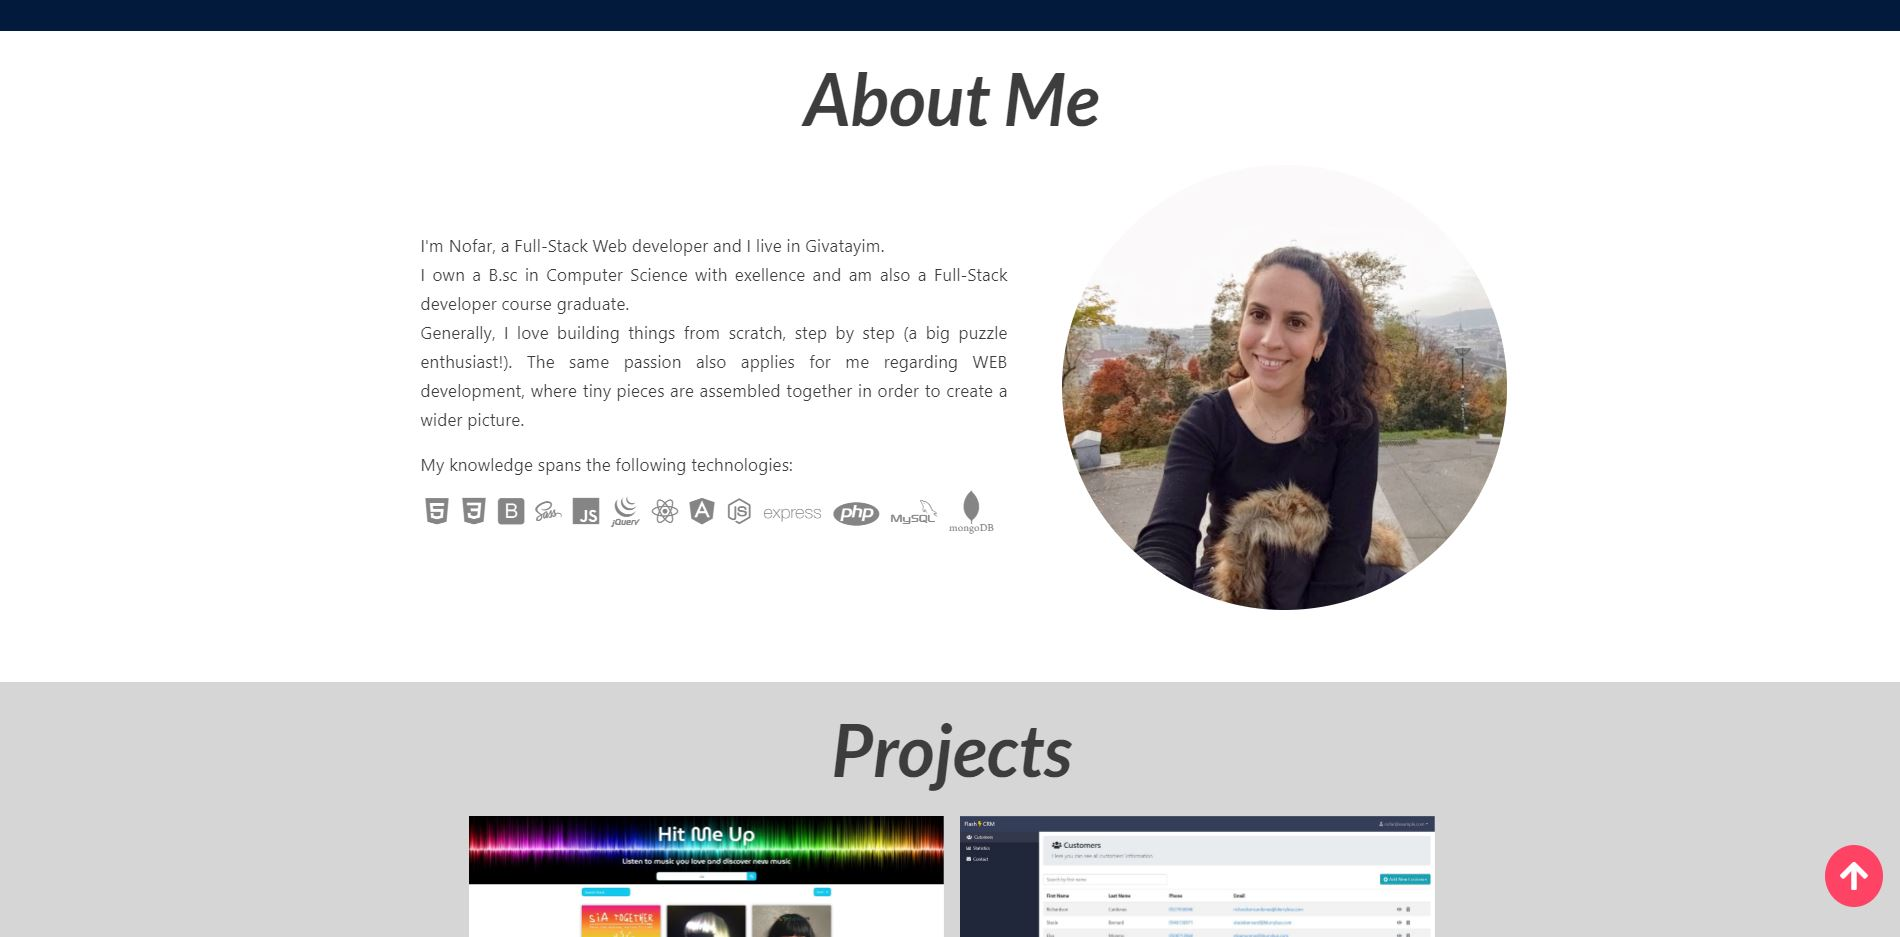
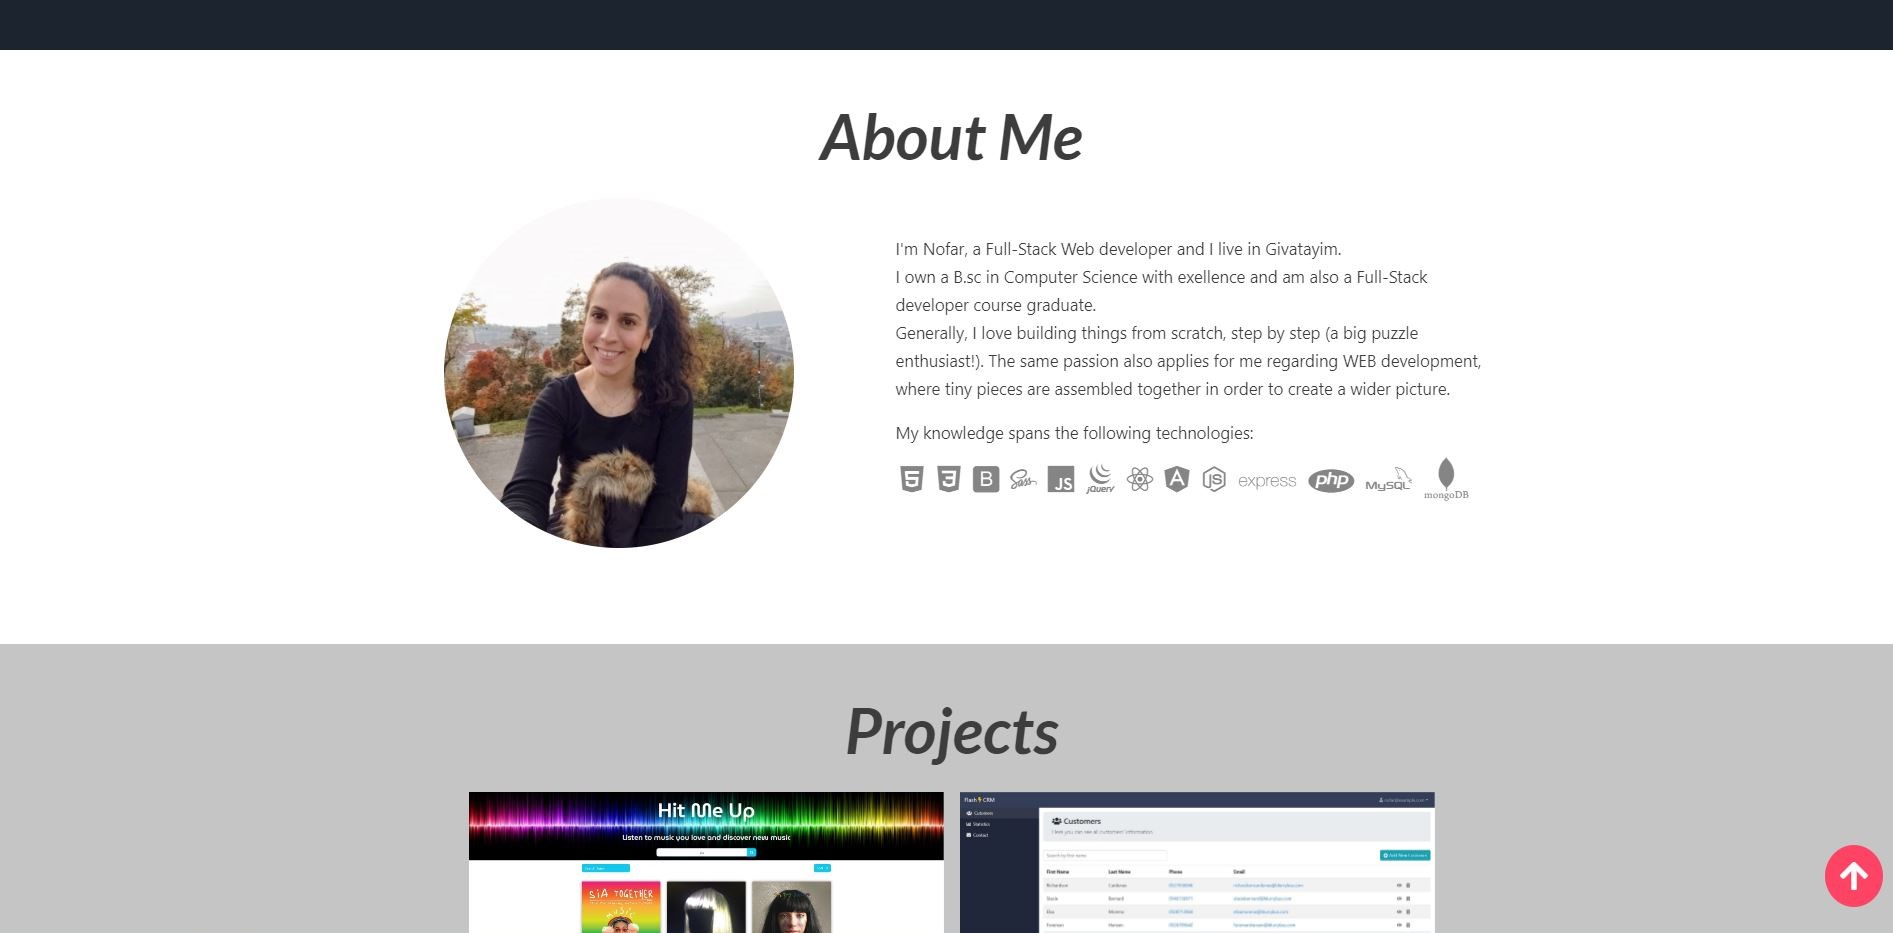
Changing style

diff --git a/src/components/header.jsx b/src/components/header.jsx
@@ -1,6 +1,6 @@
 import React, { Component } from "react";
 import Typist from "react-typist";
-import { Link } from "react-router-dom";
+// import { Link } from "react-router-dom";
 import $ from "jquery";
 
 class Header extends Component {
@@ -18,41 +18,43 @@ class Header extends Component {
   render() {
     return (
       <React.Fragment>
-        <Link
+        {/* <Link
           to="#contact"
           id="header-btn"
           onClick={e => this.handleScrollToContact(e)}
         >
           Let's Talk <i className="fas fa-arrow-right"></i>
-        </Link>
+        </Link> */}
 
         <section className="container d-flex align-items-center">
           <div className="row">
             <div className="main-title pl-3 pl-lg-0">
               <Typist cursor={{ show: false }}>
                 <Typist.Delay ms={500} />
-                <p className="tag mb-3">&lt;html&gt;</p>
+                <p className="tag mb-2">&lt;html&gt;</p>
               </Typist>
               <Typist cursor={{ show: false }}>
                 <Typist.Delay ms={1000} />
-                <p className="tag mb-5 ml-md-4">&lt;body&gt;</p>
+                <p className="tag ml-md-4 mb-5">&lt;body&gt;</p>
               </Typist>
               <Typist cursor={{ show: false }}>
                 <Typist.Delay ms={1500} />
+                <span className="tag ml-md-5">&lt;h1&gt;</span>
                 <h1 className="name-title pl-md-5">
-                  <span className="tag">&lt;h1&gt;</span>&nbsp; Hi, I'm Nofar
-                  Salhove&nbsp;&nbsp;
-                  <span className="tag">&lt;&#47;h1&gt;</span>
+                  <span className="ml-md-5">Hi,</span>
+                  <br />
+                  <span className="ml-md-5 mr-3">I'm Nofar Salhove</span>
                 </h1>
+                <span className="tag ml-md-5">&lt;&#47;h1&gt;</span>
               </Typist>
               <Typist cursor={{ show: false }}>
                 <Typist.Delay ms={4700} />
                 <p
                   data-text="A Full Stack Web Developer"
-                  className="profession mb-5 ml-md-5"
+                  className="profession ml-md-5 mb-5"
                 >
                   <span className="tag">&lt;p&gt;</span>
-                  <span className="mx-4 mx-md-5">
+                  <span className="mx-2 mx-md-3">
                     A Full Stack Web Developer
                   </span>
                   <span className="tag">&lt;&#47;p&gt;</span>
@@ -60,11 +62,11 @@ class Header extends Component {
               </Typist>
               <Typist cursor={{ show: false }}>
                 <Typist.Delay ms={7900} />
-                <p className="tag mb-3 ml-md-4">&lt;&#47;body&gt;</p>
+                <p className="tag mb-2 ml-md-4">&lt;&#47;body&gt;</p>
               </Typist>
               <Typist cursor={{ show: false }}>
                 <Typist.Delay ms={8500} />
-                <p className="tag mb-0">&lt;&#47;html&gt;</p>
+                <p className="tag mb-4">&lt;&#47;html&gt;</p>
               </Typist>
             </div>
           </div>

diff --git a/src/styles/header.scss b/src/styles/header.scss
@@ -14,7 +14,7 @@ header {
     padding: 8px 30px;
     border: 2px solid #fff;
     color: white;
-    font-size: 1.3em;
+    font-size: 15.5pt;
     font-family: $lato-font, "sans-serif";
     font-style: italic;
     text-decoration: none;
@@ -45,22 +45,21 @@ header {
     font-size: 20px;
     color: #fff;
     // color: #696969;
-    @include type-style;
     font-weight: normal;
   }
 
   .name-title {
     color: cyan;
-    font-size: 1.6em;
+    // font-size: 1.6em;
+    font-size: 33pt !important;
     // font-size: 6vw !important;
-    @include type-style;
   }
 
   .profession {
     color: cyan;
-    font-size: 1.2em;
+    // font-size: 1.2em;
+    font-size: 17pt;
     font-weight: 300 !important;
-    @include type-style;
   }
 }
 
@@ -69,31 +68,46 @@ header {
   // header.container {
   //   padding-top: 260px !important;
   // }
+  header {
+    .container {
+      width: 900px;
+    }
 
-  .name-title {
-    font-size: 3em !important;
-  }
+    .name-title {
+      // font-size: 2em !important;
+      font-size: 40pt !important;
+    }
 
-  .profession {
-    font-size: 2em !important;
+    .profession {
+      // font-size: 2em !important;
+      font-size: 22pt !important;
+    }
   }
 }
 
 // large screen
 @media (min-width: 992px) {
-  #header-btn {
-    bottom: 30px !important;
-  }
+  header {
+    .container {
+      width: 900px;
+    }
 
-  .tag {
-    font-size: 26px !important;
-  }
+    #header-btn {
+      bottom: 10px !important;
+    }
 
-  .name-title {
-    font-size: 4.2em !important;
-  }
+    .tag {
+      font-size: 26px !important;
+    }
 
-  .profession {
-    font-size: 2.3em !important;
+    .name-title {
+      // font-size: 4.2em !important;
+      font-size: 48pt !important;
+    }
+
+    .profession {
+      // font-size: 2.3em !important;
+      font-size: 22pt !important;
+    }
   }
 }

diff --git a/src/components/projects.jsx b/src/components/projects.jsx
@@ -15,7 +15,7 @@ class Projects extends Component {
         techs: ["Javascript", "RestApi"],
         webLink: "https://hit-me-up.netlify.app/",
         gitLink: "https://github.com/nofarsalhove/hit-me-up",
-        animationDelay: 0
+        animationDelay: 100
       },
       {
         title: "Flash CRM",
@@ -23,14 +23,14 @@ class Projects extends Component {
         techs: ["Angular", "Firebase"],
         webLink: "https://flash-crm.web.app/",
         gitLink: "https://github.com/nofarsalhove/flash-crm",
-        animationDelay: 200
+        animationDelay: 300
       },
       {
         title: "Hi-JobsIL",
         image: hiJobIL,
         techs: ["React", "Node.js", "MongoDB"],
         gitLink: "https://github.com/nofarsalhove/hi-jobs-il",
-        animationDelay: 400
+        animationDelay: 500
       },
       {
         title: "My Portfolio",
@@ -38,7 +38,7 @@ class Projects extends Component {
         techs: ["React"],
         webLink: "https://www.nofarsalhove.com/",
         gitLink: "https://github.com/nofarsalhove/portfolio",
-        animationDelay: 600
+        animationDelay: 700
       }
     ]
   };

diff --git a/src/components/about.jsx b/src/components/about.jsx
@@ -30,13 +30,14 @@ class About extends Component {
           <SectionTitle title="About Me" />
 
           <div className="row mb-5">
-            <div className="col-10 col-sm-8 col-md-7 col-lg-5 mx-auto">
+            <div className="col-10 col-sm-8 col-md-7 col-lg-4 mx-auto">
               <img
                 src={me}
                 alt="me"
                 className="img-fluid rounded-circle"
                 data-aos="fade-right"
                 data-aos-duration="600"
+                data-aos-delay="100"
               />
             </div>
             <div className="col-lg-7 d-flex align-items-center pt-4 pt-lg-0">
@@ -44,6 +45,7 @@ class About extends Component {
                 className="px-lg-4"
                 data-aos="fade-left"
                 data-aos-duration="600"
+                data-aos-delay="100"
               >
                 <p>
                   I'm Nofar, a Full-Stack Web developer and I live in Givatayim.

diff --git a/src/styles/projects.scss b/src/styles/projects.scss
@@ -2,10 +2,13 @@
 @import "common/fonts.scss";
 
 #project {
-  background-color: #d6d6d6;
-  // background-color: #f5f5f5;
+  // background-color: #d6d6d6;
+  background-color: #dadada;
+  // background-color: #c5c5c5;
 
   .project-container {
+    position: relative;
+
     .project-description {
       position: absolute;
       width: 100%;
@@ -33,6 +36,7 @@
       font-family: $lato-font, sans-serif;
       font-weight: 700;
       font-style: italic;
+      font-size: 22pt;
     }
 
     .project-links {
@@ -46,6 +50,22 @@
           transform: translateY(-4px);
         }
       }
+    }
+  }
+}
+
+@media (min-width: 768px) {
+  #project {
+    .card-title {
+      font-size: 24pt !important;
+    }
+  }
+}
+
+@media (min-width: 992px) {
+  #project {
+    .card-title {
+      font-size: 26pt !important;
     }
   }
 }

diff --git a/src/components/contact.jsx b/src/components/contact.jsx
@@ -58,7 +58,12 @@ class Contact extends Component {
         <div className="container">
           <SectionTitle title="Let's keep in touch" />
 
-          <div className="row justify-content-center">
+          <div
+            className="row justify-content-center"
+            data-aos="zoom-in"
+            data-aos-duration="650"
+            data-aos-delay="300"
+          >
             <form
               method="POST"
               autoComplete="off"

diff --git a/src/components/create-project-card.jsx b/src/components/create-project-card.jsx
@@ -15,7 +15,10 @@ class CreateProjectCard extends Component {
     return (
       <div
         className="project-container col-10 col-md-10 col-lg-5 mb-4 px-0 mx-sm-2 "
-        data-aos="zoom-in"
+        // data-aos="zoom-in"
+        data-aos="fade-up"
+        data-aos-anchor-placement="top-bottom"
+        data-aos-duration="600"
         data-aos-delay={animationDelay}
       >
         <section className="project-description text-white py-3 text-center">

diff --git a/src/styles/contact.scss b/src/styles/contact.scss
@@ -1,8 +1,10 @@
 @import "common/mixins.scss";
 
 #contact {
-  background-color: #042d62;
-  // background-color: #94c284;
+  // background-color: #042d62;
+  // background-color: #2c394b;
+  background-color: #253346;
+
   h1 {
     color: white;
   }
@@ -15,7 +17,7 @@
 
   .form-control {
     // background-color: rgba(#021b3b, 0.4);
-    background-color: rgba(#000, 0.2);
+    background-color: rgba(#000, 0.3);
     border: none;
     color: white;
 

diff --git a/src/styles/common/section-title.scss b/src/styles/common/section-title.scss
@@ -3,4 +3,17 @@ h1 {
   color: #3d3d3d;
   font-weight: 700;
   font-style: italic;
+  font-size: 33pt !important;
+}
+
+@media (min-width: 768px) {
+  h1 {
+    font-size: 40pt !important;
+  }
+}
+
+@media (min-width: 992px) {
+  h1 {
+    font-size: 48pt !important;
+  }
 }

diff --git a/src/styles/common/mixins.scss b/src/styles/common/mixins.scss
@@ -1,10 +1,3 @@
-// used in the file "header.scss"
-@mixin type-style {
-  white-space: nowrap;
-  overflow: hidden;
-  width: 100%;
-}
-
 @mixin social-links-mixin {
   color: white;
   font-size: 2em;

diff --git a/src/styles/nav.scss b/src/styles/nav.scss
@@ -27,6 +27,7 @@ nav {
       font-style: italic;
       font-weight: bold;
       transition: 0.4s ease;
+      padding-top: 0;
 
       // underline animation
       &::after {

diff --git a/src/styles/about.scss b/src/styles/about.scss
@@ -1,7 +1,7 @@
 #about {
   overflow-x: hidden;
   p {
-    font-size: 13pt;
+    font-size: 12.5pt;
     line-height: 1.7;
     // text-align: justify;
     color: #3d3d3d;
